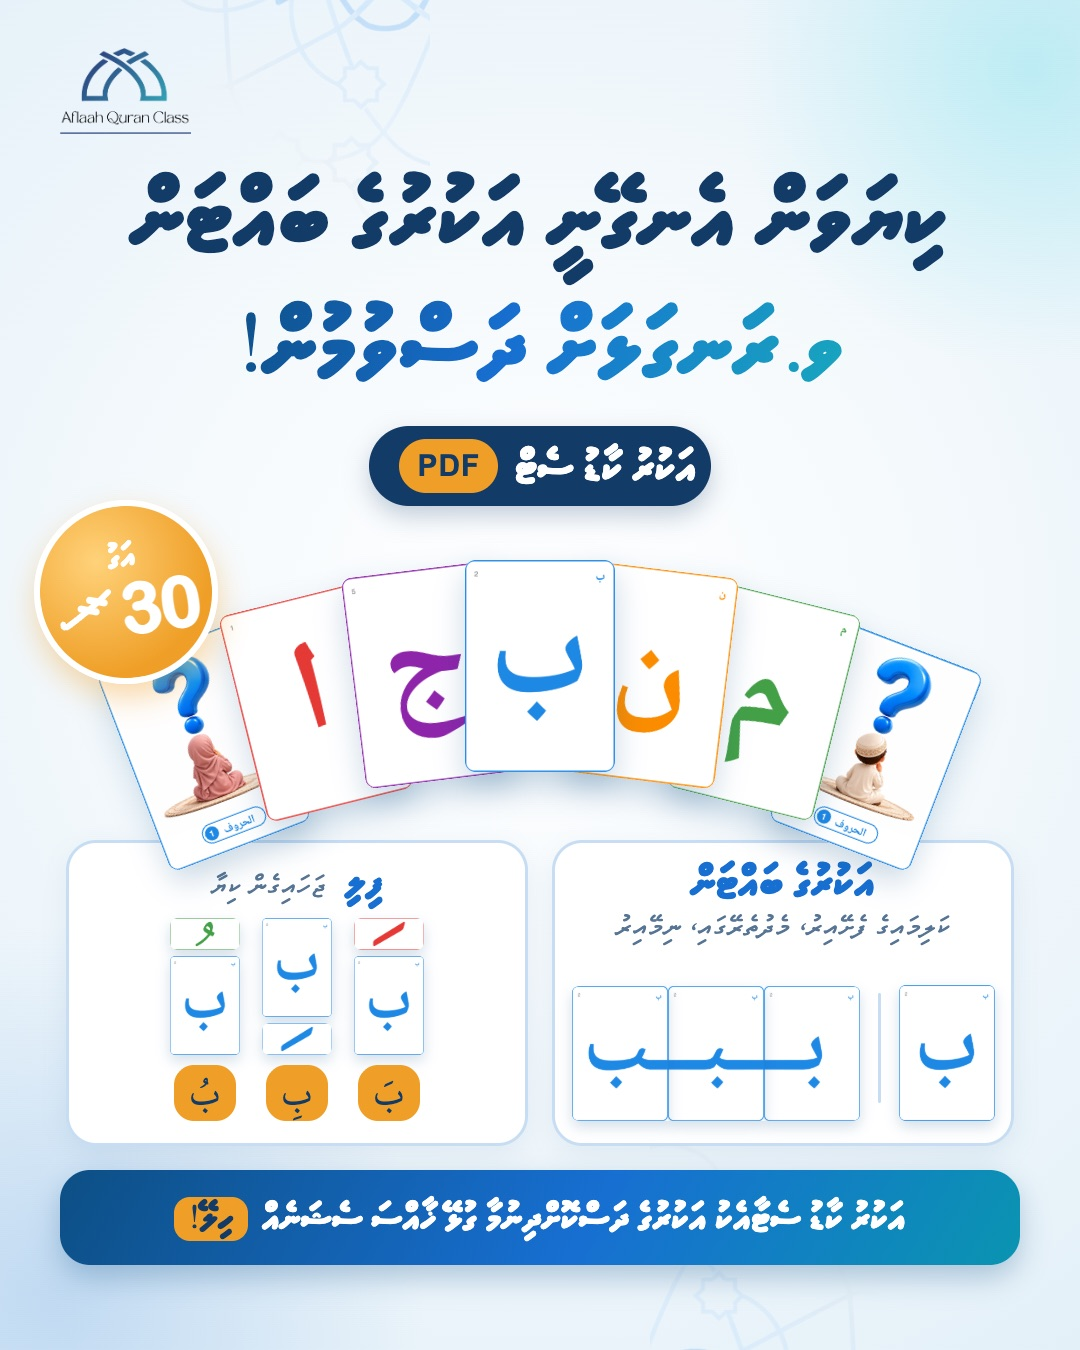
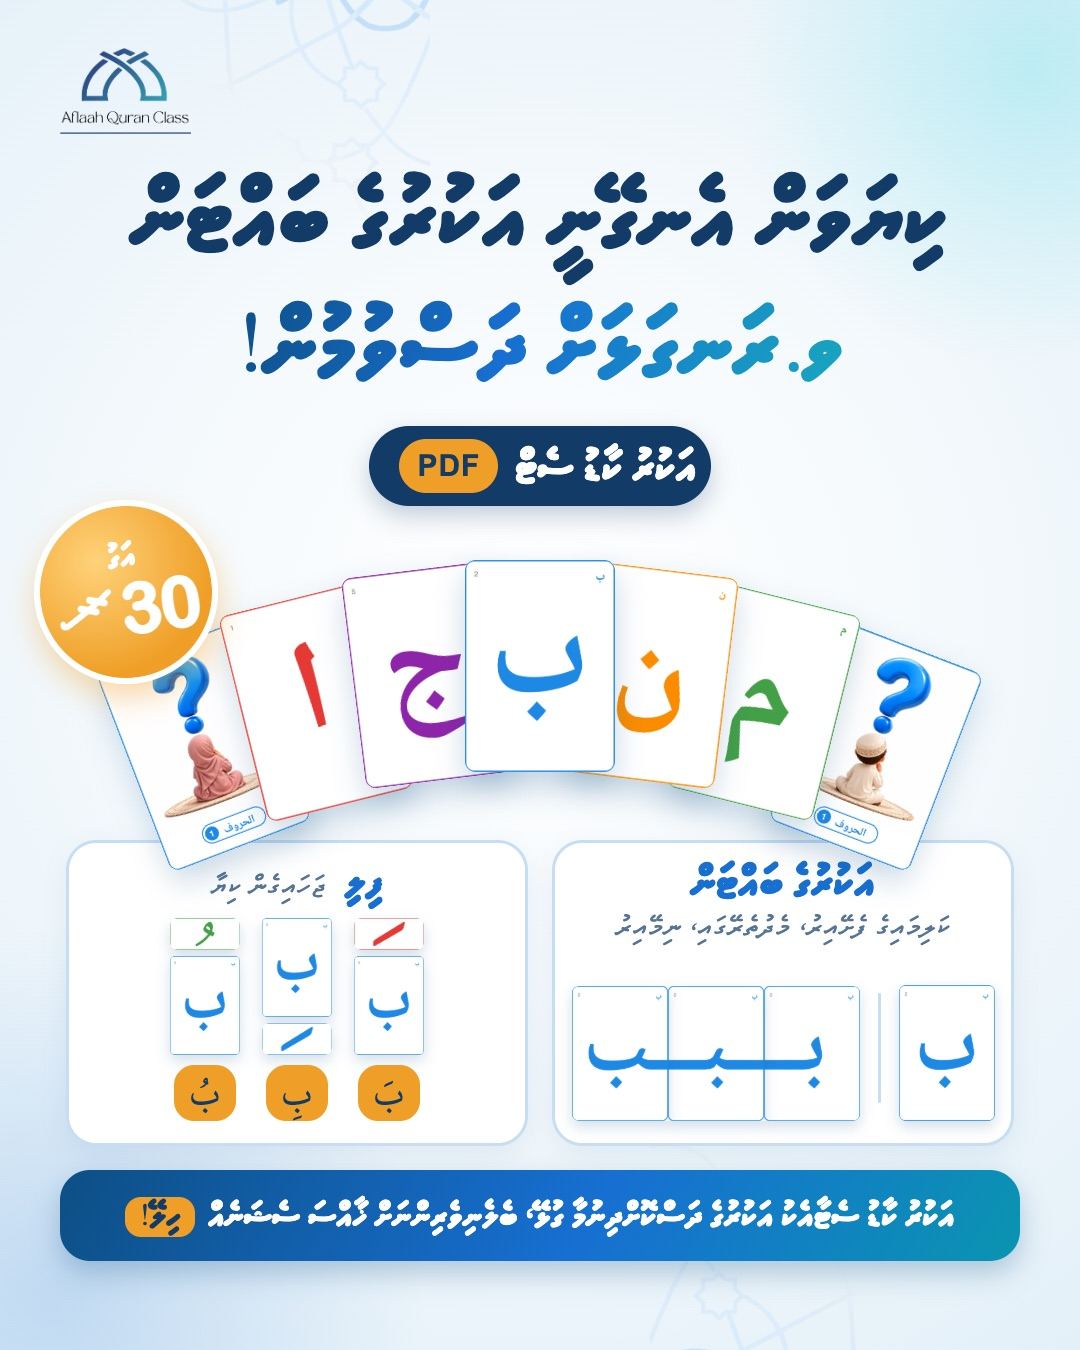
Store: the free session with the card set is for parents
The free-session line on the store, the order page and the poster image now
says it's a special session for parents.

Changed region(s): [[0.1222, 0.8711, 0.9167, 0.9644]]

diff --git a/src/landing/siteStrings.js b/src/landing/siteStrings.js
@@ -101,7 +101,7 @@ export const SITE_STRINGS = [
   s("Book store", "store.payNow", "Pay now", "ފައިސާ ދައްކާ"),
   s("Book store", "product.huroof.name", "Letter card set (PDF)", "އަކުރު ކާޑު ސެޓް (PDF)"),
   s("Book store", "product.huroof.text", "Printable cards for learning each letter's shape at the start, middle and end of a word, and reading it with harakaat.", "ކަލިމައިގެ ފެށޭއިރު، މެދުތެރޭގައި އަދި ނިމޭއިރު އަކުރުގެ ބައްޓަން، އަދި ފިލި ޖަހައިގެން ކިޔުން ދަސްކުރުމަށް ޕްރިންޓްކުރެވޭ ކާޑުތައް."),
-  s("Book store", "product.huroof.bonus", "Comes with a free special session on teaching the letters!", "އަކުރު ކާޑު ސެޓާއެކު އަކުރުގެ ދަސްކޮށްދިނުމާ ގުޅޭ ޚާއްސަ ސެޝަނެއް ހިލޭ!"),
+  s("Book store", "product.huroof.bonus", "Comes with a free special session for parents on teaching the letters!", "އަކުރު ކާޑު ސެޓާއެކު އަކުރުގެ ދަސްކޮށްދިނުމާ ގުޅޭ، ބެލެނިވެރިންނަށް ޚާއްސަ ސެޝަނެއް ހިލޭ!"),
 
   s("Sample portal screens", "show.label", "What students and parents get", "ދަރިވަރުންނާއި ބެލެނިވެރިންނަށް ލިބޭ ޚިދުމަތްތައް"),
   s("Sample portal screens", "show.dot", "Show {name}", "{name} ދައްކާ"),

diff --git a/src/store/products.js b/src/store/products.js
@@ -21,7 +21,7 @@ export const PRODUCTS = {
       "ފިލި ޖަހައިގެން ކިޔުން",
       "ޕްރިންޓްކޮށް ގޭގައި ކުޅެލަމުން ދަސްކުރެވޭ",
     ],
-    bonus: "އަކުރު ކާޑު ސެޓާއެކު އަކުރުގެ ދަސްކޮށްދިނުމާ ގުޅޭ ޚާއްސަ ސެޝަނެއް ހިލޭ!",
+    bonus: "އަކުރު ކާޑު ސެޓާއެކު އަކުރުގެ ދަސްކޮށްދިނުމާ ގުޅޭ، ބެލެނިވެރިންނަށް ޚާއްސަ ސެޝަނެއް ހިލޭ!",
     viber: "9715441",
     // SMS the admin can send once an order is accepted (Admin → Store).
     acceptedMessage: `އައްސަލާމް ޢަލައިކުމް!
